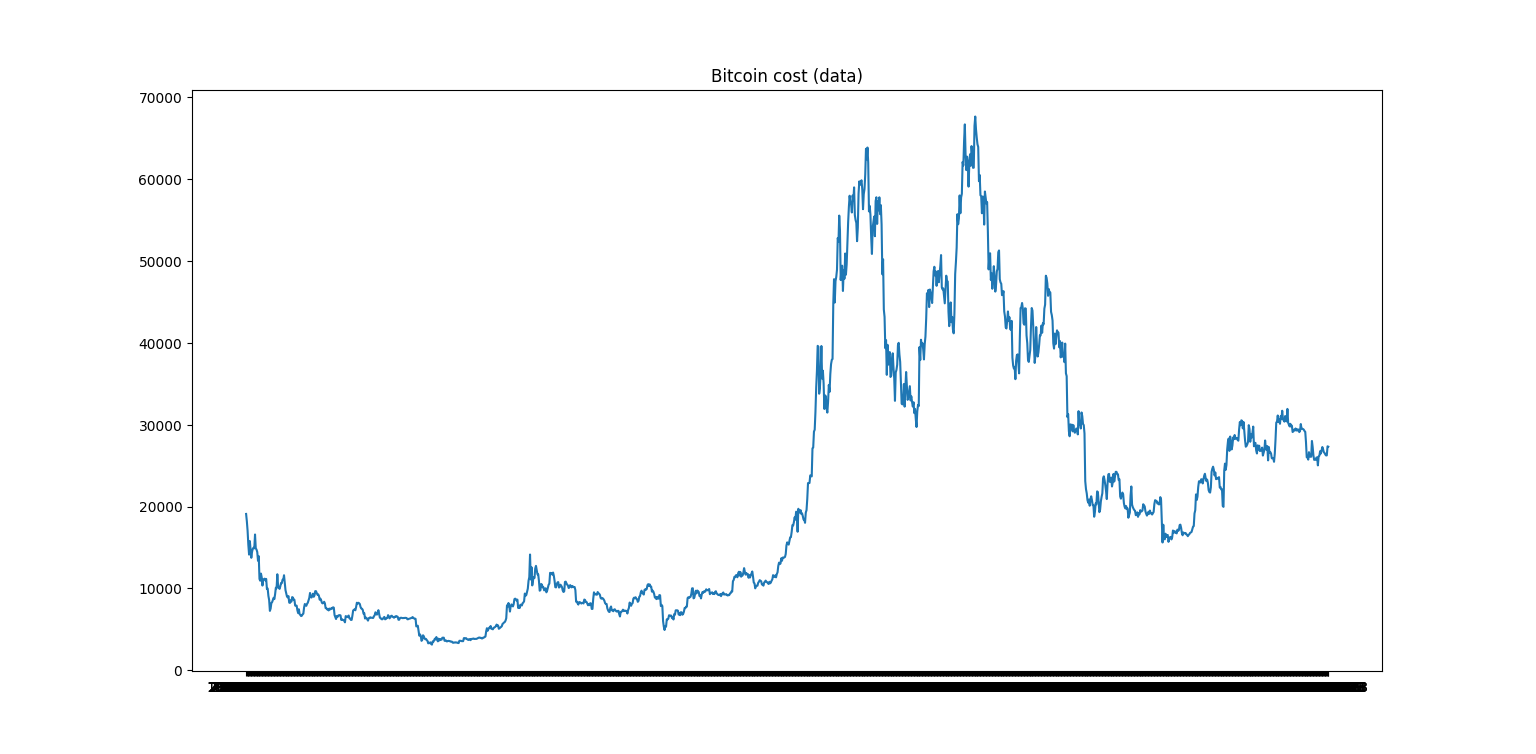
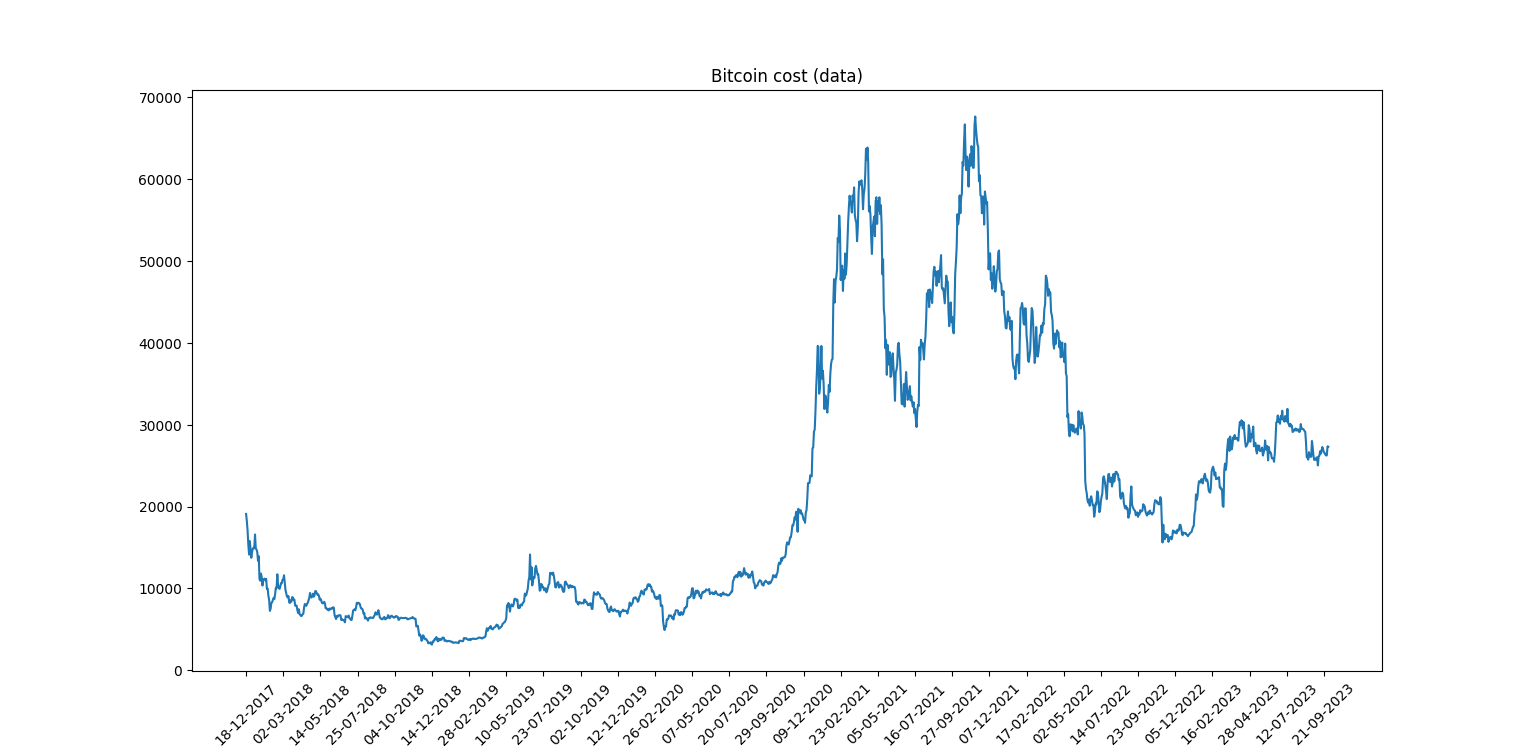
Has done Ex 5, 7 from HW for 03.10.25

Changed region(s): [[0.125, 0.8846, 0.9062, 1.0]]

diff --git a/Seminars/Semester_1/Seminar_03.10.25.py b/Seminars/Semester_1/Seminar_03.10.25.py
@@ -1,0 +1,23 @@
+"""
+from tkinter import *
+from tkinter import ttk
+
+root = Tk()
+root.geometry("500x250")
+
+# функция нажатия на кнопку создает новый
+# *args означает, что функция может принимать любое количество переменных.
+def callback(*args):
+   Label(root, text="Да!", font=('Montserrat 14 bold'), wraplength=True).pack(pady=4) #обратите внимание, что обращаемся к root как к глобальной переменной
+'''
+ВАЖНО!
+Вы передаете функцию в виджет как объект -- поэтому она пишется здесь без скобок.
+Если напишете со скобками, то она вызовется один раз и передаст как команду результат вызова (в нашем случае -- ничего).
+Протестируйте это.
+'''
+btn = Button(root, text="Да?", command = callback)
+btn.pack(ipadx=50) #ipadx задает размер кнопки по x
+# делает так, чтобы при нажатии на Enter (эквивалент команды Return) тоже выполнялось callback
+root.bind('<Return>', callback)
+root.mainloop()
+"""

diff --git a/Homework/Semester_1/Homework_for_03.10.25_and_12.10.25/Ex_7.py b/Homework/Semester_1/Homework_for_03.10.25_and_12.10.25/Ex_7.py
@@ -1,12 +1,19 @@
-import matplotlib.pyplot as plt
-import numpy as np
-import pandas as pd
-
+import string
 with open("input_for_7.txt", 'r', encoding="utf_8") as file:
     text = file.read()
-    #дописать разбиение текста на слова (замена всех знаков пунктуации на пробелы), привести все строки к нижнему виду
-    words = {word: amount for word, amount in zip([text[i] for i in range(len(text))], [0] * len(text))}
-    for i in range(len(text)):
-        if text[i] in words:
-            words[text[i]] += 1
-    print(text)
+    text = (text.translate(str.maketrans('', '', string.punctuation))).lower()
+    text_list = text.split(" ")
+    words = {word: amount for word, amount in zip(text_list, [0] * len(text))}
+    if "" in words: del words[""]
+    for i in range(len(text_list)):
+        if text_list[i] in words:
+            words[text_list[i]] += 1
+    words_10 = [0] * 10
+    for i in range(10):
+        max_value = 0
+        for key in words:
+            if words[key] > max_value:
+                max_value = words[key]
+                words_10[i] = key
+        del words[words_10[i]]
+    print(words_10)

diff --git a/Homework/Semester_1/Homework_for_03.10.25_and_12.10.25/Ex_5.py b/Homework/Semester_1/Homework_for_03.10.25_and_12.10.25/Ex_5.py
@@ -8,6 +8,7 @@ data = pd.read_csv('BTC_data.csv')
 time_list = list(data['time'])
 close_list = list(data['close'])
 time_x = np.array([(time_list[i])[8:10]+"-"+(time_list[i])[5:7]+"-"+(time_list[i])[0:4] for i in range(len(time_list))])
+timeline_x = [time_x[i] for i in range(0, len(time_list), 50)]
 close_y = np.array(close_list)
 print(time_x)
 print(close_y)
@@ -17,6 +18,8 @@ print(close_y)
 plt.figure(figsize = (16,9))
 
 plt.plot(time_x, close_y)
+plt.xticks(timeline_x)
+plt.tick_params(axis='x', labelrotation=45)
 plt.title("Bitcoin cost (data)")
 
 plt.show()
